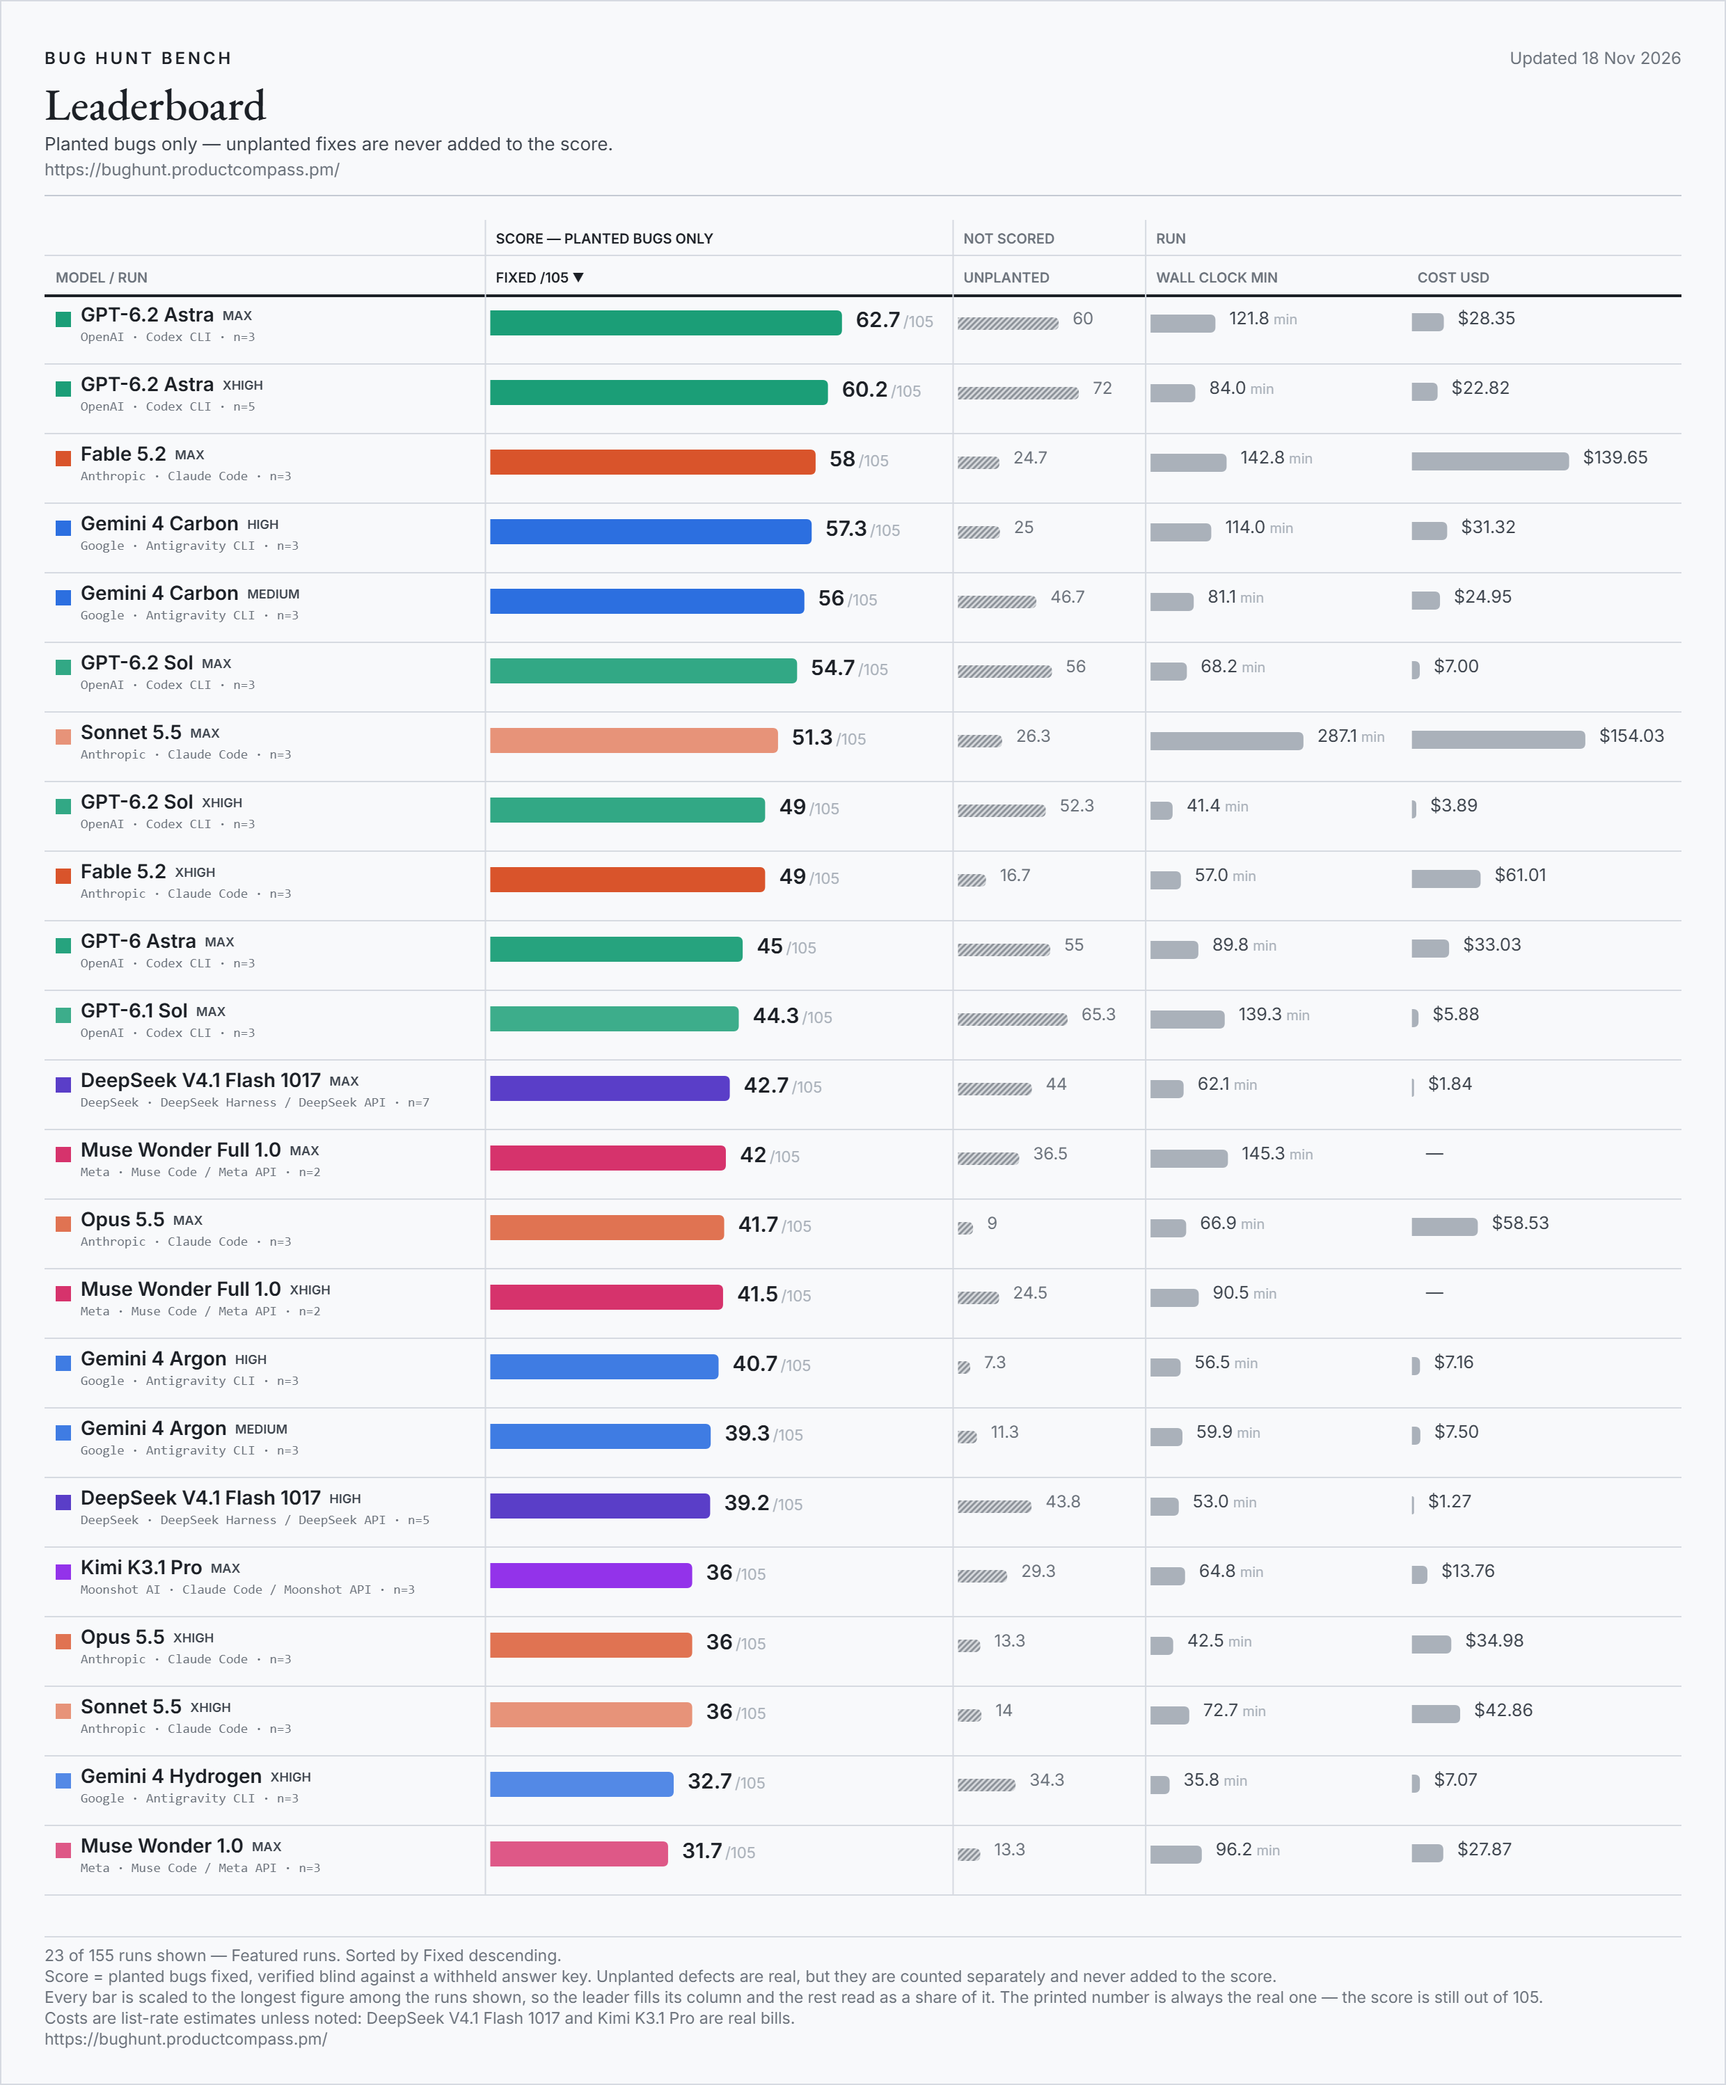
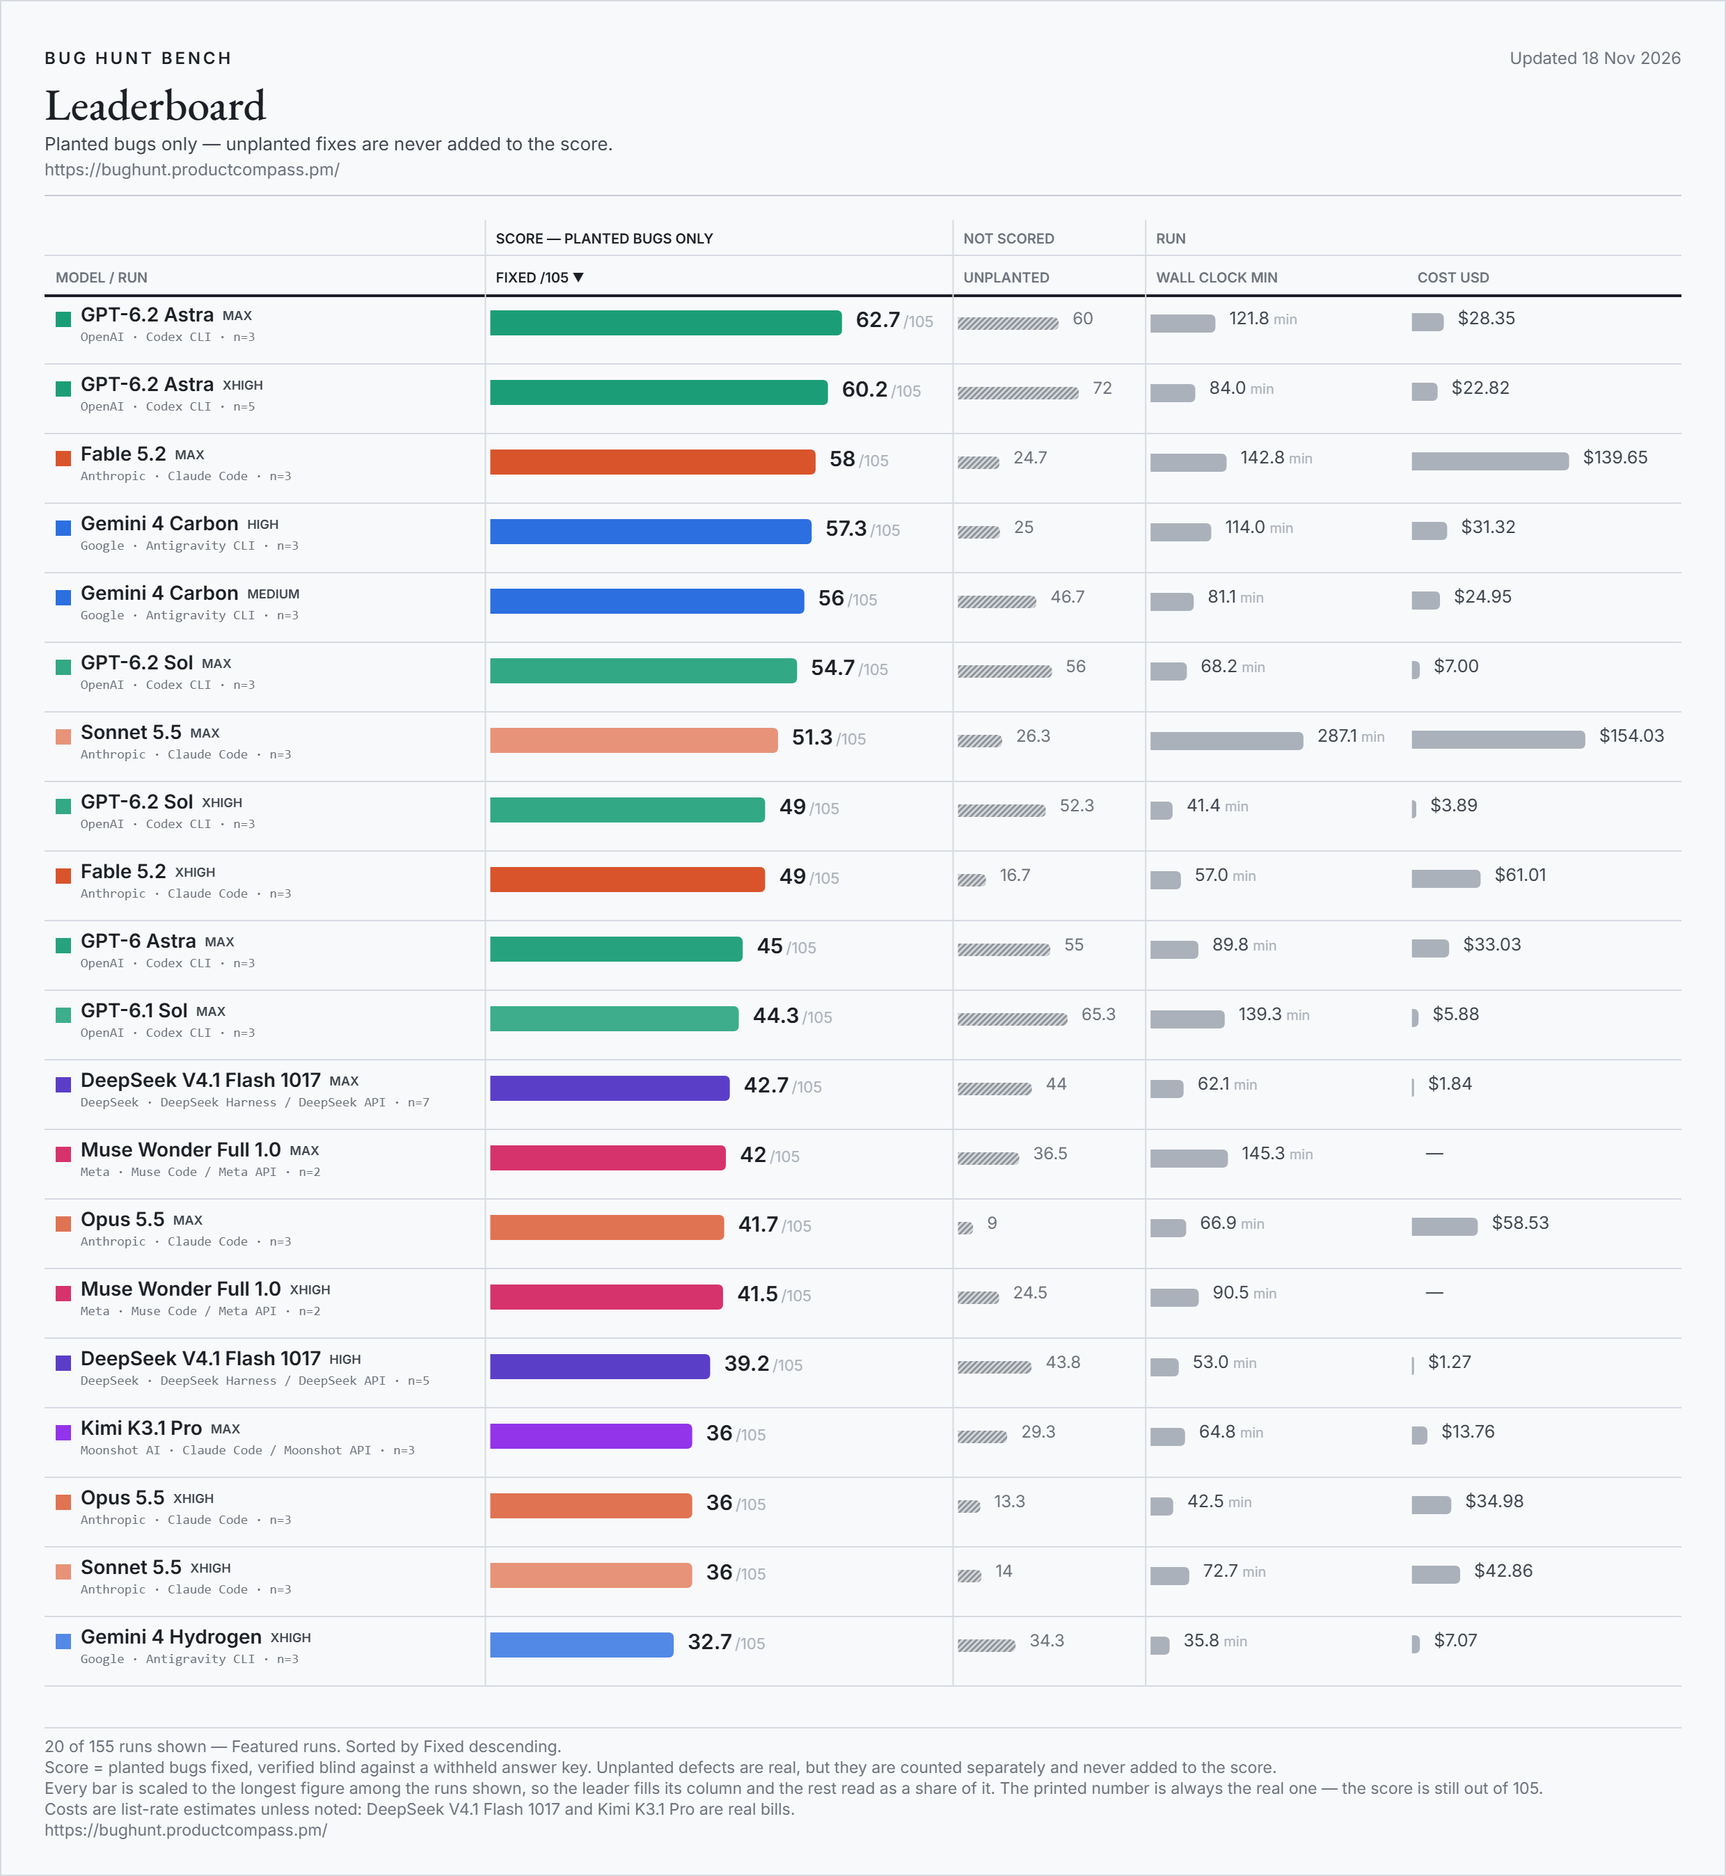
Unfeature Gemini 4 Argon (high, medium) and Muse Wonder 1.0 (max)

diff --git a/index.html b/index.html
@@ -22,14 +22,14 @@
 <meta property="og:title" content="Bug Hunt Bench — frontier coding models against real planted bugs">
 <meta property="og:description" content="A blind-graded benchmark of frontier coding models on real bugs planted in two production codebases. The score counts planted bugs only; extra fixes are tracked separately and never added.">
 <meta property="og:url" content="https://bughunt.productcompass.pm/">
-<meta property="og:image" content="https://bughunt.productcompass.pm/og-image.png?v=2026-11-18-412f8a05">
+<meta property="og:image" content="https://bughunt.productcompass.pm/og-image.png?v=2026-11-18-cf031de0">
 <meta property="og:image:width" content="1200">
 <meta property="og:image:height" content="630">
 <meta property="og:image:alt" content="Bug Hunt Bench leaderboard">
 <meta name="twitter:card" content="summary_large_image">
 <meta name="twitter:title" content="Bug Hunt Bench — frontier coding models against real planted bugs">
 <meta name="twitter:description" content="A blind-graded benchmark of frontier coding models on real bugs planted in two production codebases. The score counts planted bugs only.">
-<meta name="twitter:image" content="https://bughunt.productcompass.pm/og-image.png?v=2026-11-18-412f8a05">
+<meta name="twitter:image" content="https://bughunt.productcompass.pm/og-image.png?v=2026-11-18-cf031de0">
 <meta name="twitter:creator" content="@PawelHuryn">
 
 <link rel="icon" href="/assets/favicon.svg" type="image/svg+xml">

diff --git a/method.html b/method.html
@@ -20,14 +20,14 @@
 <meta property="og:title" content="Method, caveats and definitions — Bug Hunt Bench">
 <meta property="og:description" content="How Bug Hunt Bench is run and graded, what the board cannot tell you, and what every column on it means.">
 <meta property="og:url" content="https://bughunt.productcompass.pm/method">
-<meta property="og:image" content="https://bughunt.productcompass.pm/og-image.png?v=2026-11-18-412f8a05">
+<meta property="og:image" content="https://bughunt.productcompass.pm/og-image.png?v=2026-11-18-cf031de0">
 <meta property="og:image:width" content="1200">
 <meta property="og:image:height" content="630">
 <meta property="og:image:alt" content="Bug Hunt Bench leaderboard">
 <meta name="twitter:card" content="summary_large_image">
 <meta name="twitter:title" content="Method, caveats and definitions — Bug Hunt Bench">
 <meta name="twitter:description" content="How Bug Hunt Bench is run and graded, what the board cannot tell you, and what every column on it means.">
-<meta name="twitter:image" content="https://bughunt.productcompass.pm/og-image.png?v=2026-11-18-412f8a05">
+<meta name="twitter:image" content="https://bughunt.productcompass.pm/og-image.png?v=2026-11-18-cf031de0">
 <meta name="twitter:creator" content="@PawelHuryn">
 
 <link rel="icon" href="/assets/favicon.svg" type="image/svg+xml">

diff --git a/README.md b/README.md
@@ -7,7 +7,7 @@
 If the numbers save you a benchmark run of your own, **star this repo** — that is what keeps the bench findable, and new models are added as they ship.
 
 <!-- leaderboard:start -->
-![Bug Hunt Bench leaderboard, the featured runs, updated Nov 18, 2026](assets/leaderboard.png?v=2026-11-18-89f2042c)
+![Bug Hunt Bench leaderboard, the featured runs, updated Nov 18, 2026](assets/leaderboard.png?v=2026-11-18-7fb29848)
 
 **Updated Nov 18, 2026 · 231 rows from 375 scored runs · 54 models · 19 of 105 bugs have never been fixed by any model.**
 
